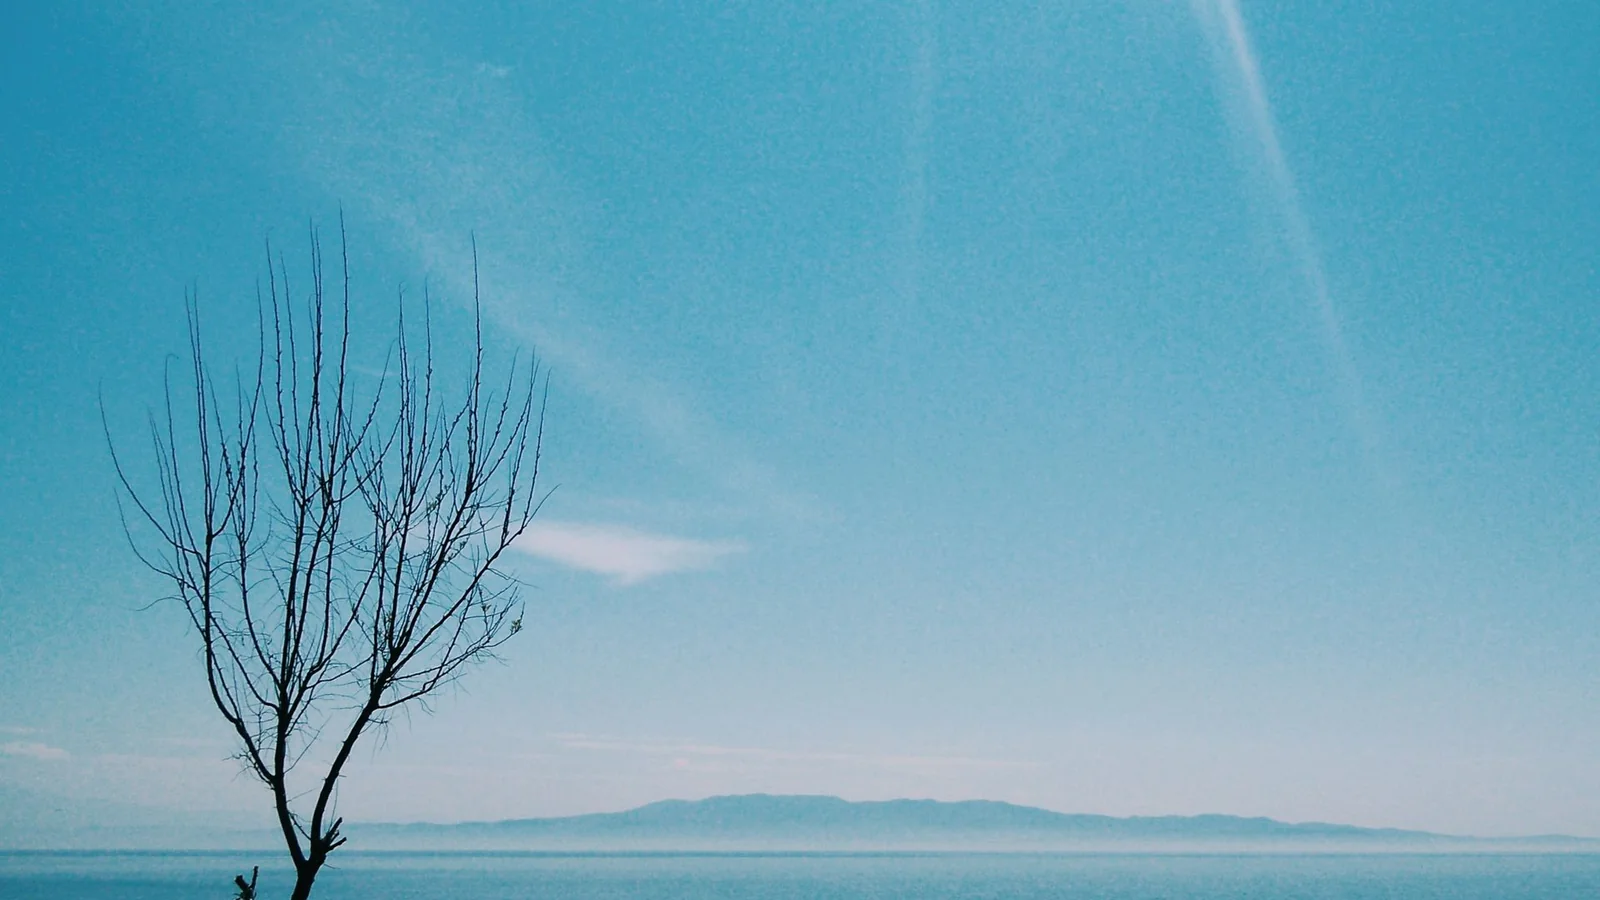
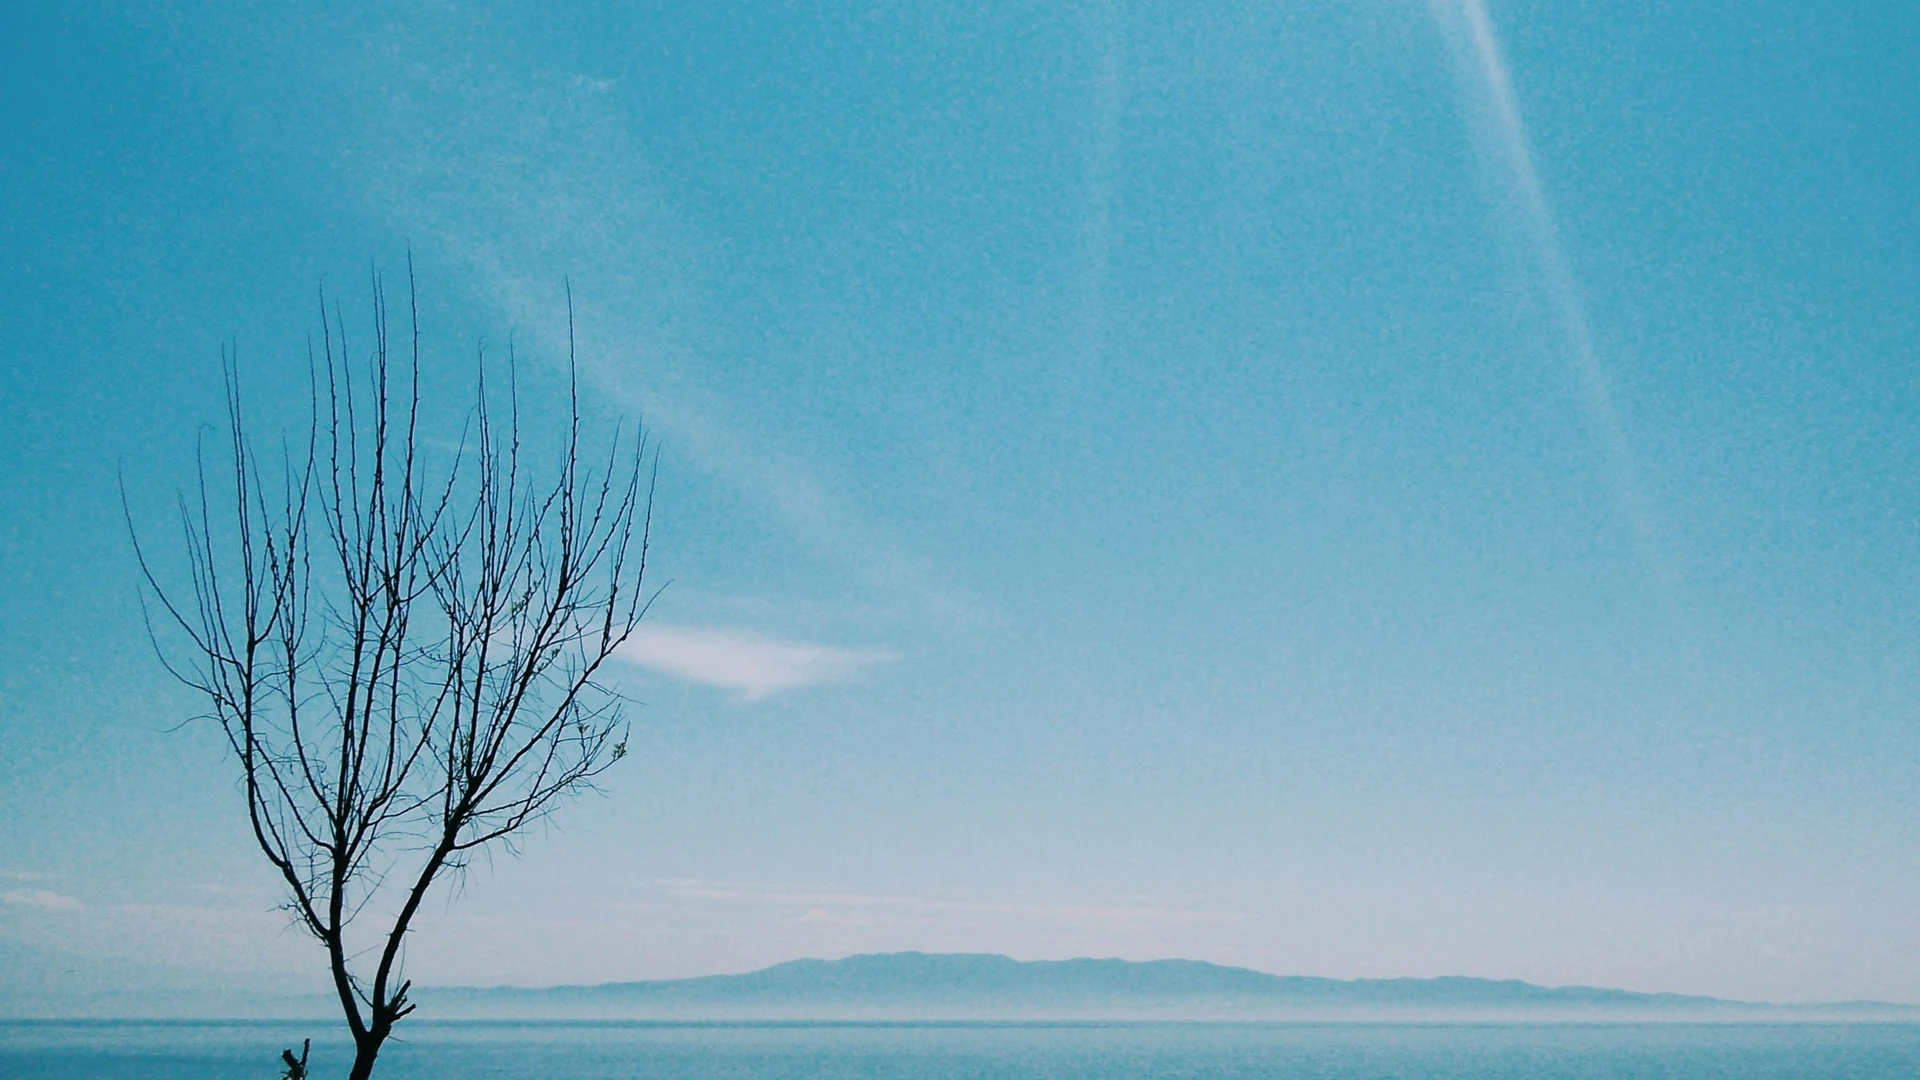
Sharper backgrounds (1920x1080) and an unclipped Search mic
Bundled Pexels photos re-encoded from the originals at 1920x1080 and decoded
at screen width, so they are no longer upscaled on 1080p TVs. The Search
header no longer clips the mic when it grows on focus or with your voice.

Changed region(s): [[0.0938, 0.4978, 0.3438, 0.8711], [0.1875, 0.9022, 0.2188, 0.9333]]

diff --git a/src/com/hydrainnit/refract/Wallpapers.java b/src/com/hydrainnit/refract/Wallpapers.java
@@ -22,7 +22,7 @@ import java.util.List;
 
 /**
  * Photographic wallpapers. A starter set of Pexels photos ships in the APK (assets/wallpapers,
- * 1600x900 WebP, ~2.6 MB, with their metadata in index.json) so wallpapers work offline and with
+ * 1920x1080 WebP, ~4.6 MB, with their metadata in index.json) so wallpapers work offline and with
  * no API key. A remote Pexels source uses the same Photo model and is off by default: Pexels API
  * access is paused, so nothing here makes a request unless PEXELS_API_PAUSED is false, the user
  * saved a key and switched remote wallpapers on.
@@ -171,7 +171,7 @@ final class Wallpapers {
     // ------------------------------------------------------------------ decoding
 
     /**
-     * Decodes one photo no wider than maxWidth (a power-of-two sample of the 1600 px file), off the
+     * Decodes one photo no wider than maxWidth (a power-of-two sample of the 1920 px file), off the
      * UI thread. The caller owns the bitmap and drops it when it is no longer shown.
      */
     static Bitmap decode(Context c, Photo p, int maxWidth) {

diff --git a/src/com/hydrainnit/refract/MainActivity.java b/src/com/hydrainnit/refract/MainActivity.java
@@ -910,7 +910,7 @@ public class MainActivity extends Activity {
         Wallpapers.Photo p = Wallpapers.byId(this, style.substring(Wallpapers.PHOTO.length()));
         if (p == null) return;
         int gen = ++photoGen;
-        int maxW = Math.min(lowRam ? 1280 : 1600, screenW);
+        int maxW = Math.min(1920, screenW);  // the bundled photos are 1920x1080: full detail on a 1080p UI
         photoLoading = true;
         io.execute(() -> {
             Bitmap b = Wallpapers.decode(this, p, maxW);

diff --git a/src/com/hydrainnit/refract/SearchPanel.java b/src/com/hydrainnit/refract/SearchPanel.java
@@ -118,6 +118,7 @@ final class SearchPanel {
         head.setOrientation(LinearLayout.HORIZONTAL);
         head.setGravity(Gravity.CENTER_VERTICAL);
         head.setClipChildren(false);
+        head.setClipToPadding(false);  // the mic grows on focus and with your voice; never cut it off
         head.setPadding(a.dockOuter, a.dp(30), a.dockOuter, 0);
         if (voice || live) {
             mic = new ImageView(a);

diff --git a/src/com/hydrainnit/refract/Ambient.java b/src/com/hydrainnit/refract/Ambient.java
@@ -331,7 +331,7 @@ final class Ambient extends FrameLayout {
     }
 
     int decodeWidth() {
-        return Math.min(lowRam ? 1280 : 1600, screenW);
+        return Math.min(1920, screenW);  // the bundled photos are 1920x1080
     }
 
     // ---------------------------------------------------------------- photos

diff --git a/ATTRIBUTIONS.md b/ATTRIBUTIONS.md
@@ -20,7 +20,7 @@ Original repository: <https://github.com/petrobot-admin/hume-launcher>. Thank yo
 ## Photographs
 
 18 photographs from [Pexels](https://www.pexels.com), bundled in `assets/wallpapers/`
-(re-encoded as 1600×900 WebP), used under the [Pexels License](https://www.pexels.com/license/):
+(re-encoded as 1920×1080 WebP), used under the [Pexels License](https://www.pexels.com/license/):
 free to use and modify, attribution appreciated rather than required. Refract credits every
 photographer anyway. The photos are built-in backgrounds for this launcher. The app is not a
 wallpaper download service and does not sell or redistribute the photos on their own, which the

diff --git a/README.md b/README.md
@@ -7,7 +7,7 @@ A tvOS 26–style home screen for Android TV, **made by Hydrainnit**. It is a fo
 builds on (see [Attributions](ATTRIBUTIONS.md)). It replaces the stock launcher with one modelled on
 Apple TV: glass dock, full-screen carousel, Control Center and profiles. It is built to stay smooth
 on low-end TV boxes like the Xiaomi Mi Box. Plain Java, no Gradle, no third-party runtime
-libraries. The APK is about 4 MB, 2.6 MB of which is bundled photographs.
+libraries. The APK is about 6 MB, 4.6 MB of which is bundled 1920×1080 photographs.
 
 Application ID: `com.hydrainnit.refract`.
 
